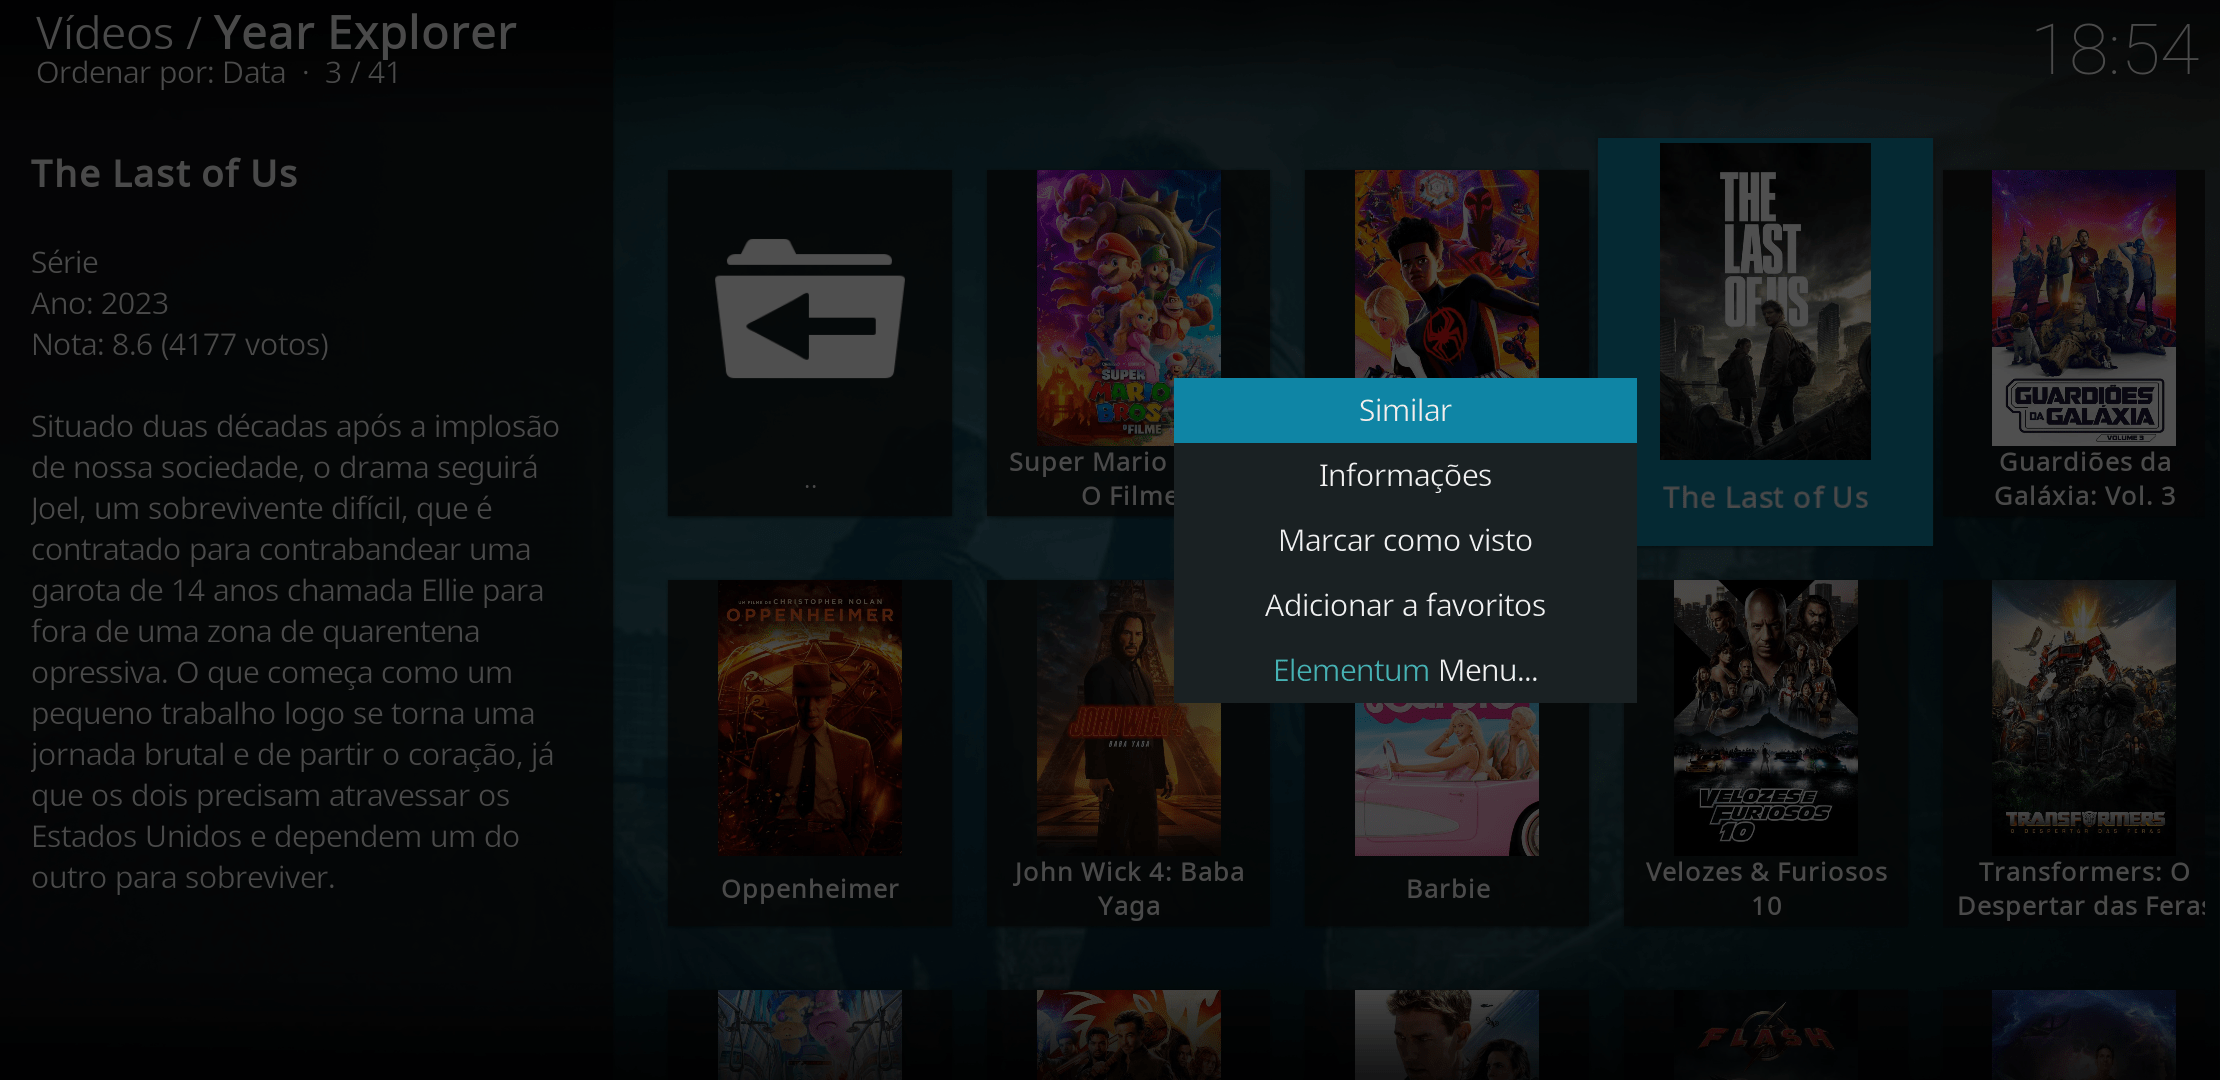
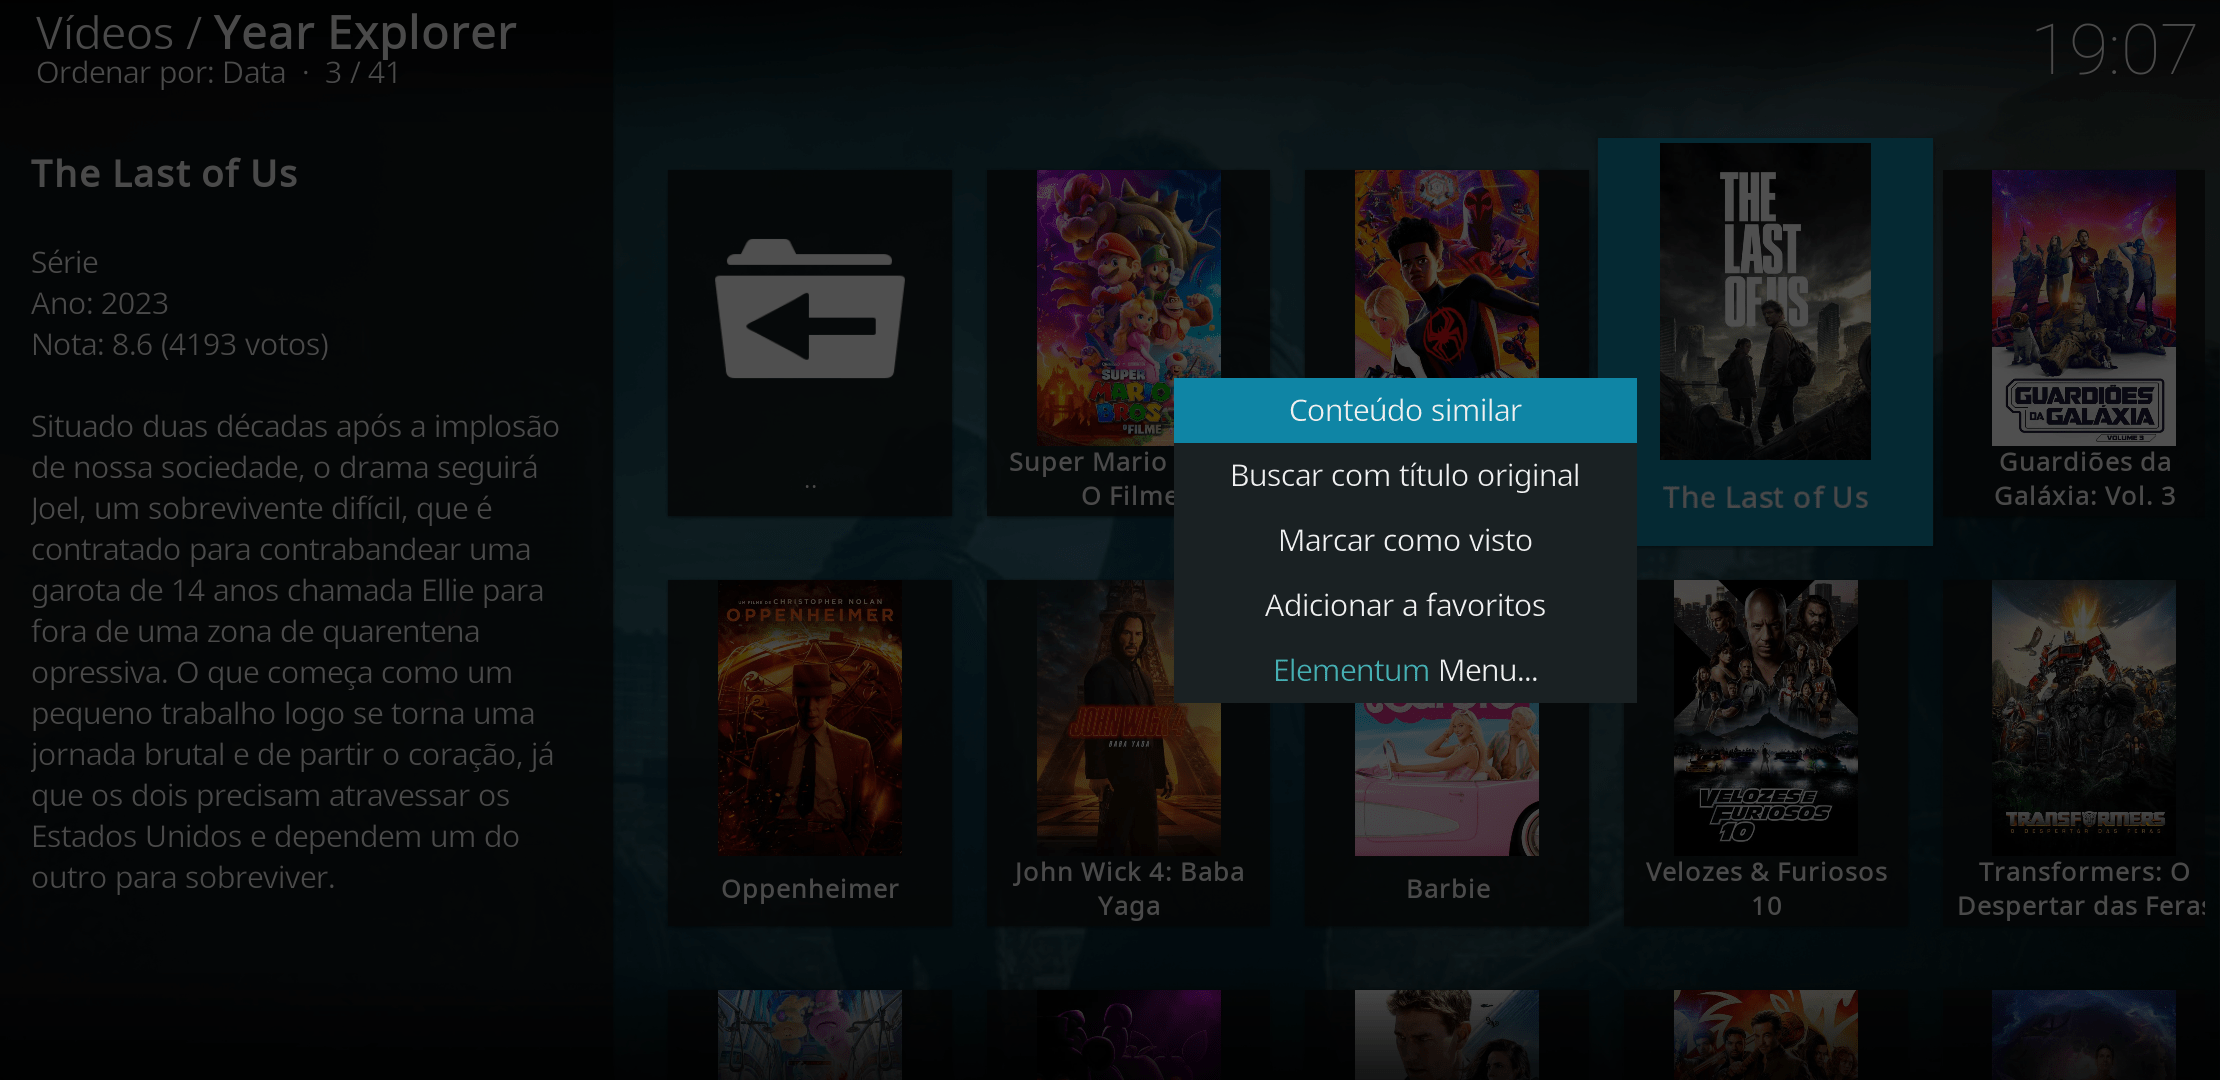
real title search at context menu

diff --git a/resources/lib/utils.py b/resources/lib/utils.py
@@ -1,4 +1,5 @@
 # -*- coding: utf-8 -*-
+# Copyright (C) 2023 gbchr
 
 from resources.lib import routing, utils
 from kodi_six import xbmc, xbmcgui, xbmcplugin, xbmcaddon, xbmcvfs
@@ -137,6 +138,13 @@ def createItem(url, label, **kwargs):
 			"plot": kwargs['plot'],
 			"mediatype": kwargs['mediatype']
 		})
+		# check and fix for original elementum context menu
+		if kwargs['mediatype'] == 'tvshow':
+			li.setInfo(type="video", infoLabels = {
+				"tvshowtitle": label,
+				"season": 1,
+				"mediatype": "season"
+			})
 		li.setArt({
 			'icon': kwargs['image'], 'thumb': kwargs['image'],
 			'poster': kwargs['image'], 'banner': kwargs['image']
@@ -147,14 +155,21 @@ def createItem(url, label, **kwargs):
 		li.setProperty("year", str(kwargs['current_year']))
 		#li.setProperty("show_dialog_busy", "false")
 
+		CM_items = []
 		# context menu for similar content
 		similar_link = plugin.base_url + '/similar/%s/%s/1' % (kwargs['id'], kwargs['mediatype'])
-		li.addContextMenuItems([('Similar', 'Container.Update(%s)' % (similar_link))])
-		
+		similar_item = ('Conteúdo similar', 'Container.Update(%s)' % (similar_link))
+		CM_items.append(similar_item)
+		# context menu for original title search
+		title_item = ('Buscar com título original', 'RunPlugin(%s)' % (kwargs['real_title_search']))
+		CM_items.append(title_item)
+		# add context menu to ListItem
+		li.addContextMenuItems(CM_items)
+
 	except Exception as e:
 		log(e)
 	addDirectoryItem(plugin.handle, url, li)
 
 def endDirectory():
-	endOfDirectory(plugin.handle, succeeded=True, cacheToDisc=False)
+	endOfDirectory(plugin.handle, succeeded=True, cacheToDisc=True)
 

diff --git a/addon.py b/addon.py
@@ -1,4 +1,5 @@
 # -*- coding: utf-8 -*-
+# Copyright (C) 2023 gbchr
 
 from resources.lib import routing, utils, parser
 from kodi_six import xbmc, xbmcgui, xbmcplugin, xbmcaddon, xbmcvfs
@@ -36,7 +37,8 @@ def list_items(year, page):
 							fanart = item['background'],
 							current_year = year,
 							id = item['tmdb'],
-							mediatype = item['tipo'])
+							mediatype = item['tipo'],
+							real_title_search = utils.elementum_url(item['metodo_busca'], item['titulo_original'], year, item['tmdb']) )
 	if int(page) > 1:
 		utils.createFolder(list_items, 'Página anterior', [year, int(page) - 1], 'previouspage.png', "", 'previouspage.png')
 	utils.createFolder(list_items, 'Próxima página', [year, int(page) + 1], 'nextpage.png', "", 'nextpage.png')
@@ -56,7 +58,8 @@ def list_similar(id, type, page):
 							fanart = item['background'],
 							current_year = year,
 							id = item['tmdb'],
-							mediatype = item['tipo'])
+							mediatype = item['tipo'],
+							real_title_search = utils.elementum_url(item['metodo_busca'], item['titulo_original'], year, item['tmdb']) )
 	if int(page) > 1:
 		utils.createFolder(list_similar, 'Página anterior', [id, type, int(page) - 1], 'previouspage.png', "", 'previouspage.png')
 	utils.createFolder(list_similar, 'Próxima página', [id, type, int(page) + 1], 'nextpage.png', "", 'nextpage.png')

diff --git a/resources/lib/parser.py b/resources/lib/parser.py
@@ -1,4 +1,5 @@
 # -*- coding: utf-8 -*-
+# Copyright (C) 2023 gbchr
 
 from resources.lib import utils, tmdb
 from kodi_six import xbmc, xbmcgui, xbmcplugin, xbmcaddon
@@ -50,6 +51,7 @@ def parse_movies_result(json):
 				'metodo_busca': 'search',
 				'tmdb': r['id'],
 				'titulo': r['title'],
+				'titulo_original': r['original_title'],
 				'sinopse': 'Filme\nAno: %s\nNota: %s (%s votos)\n\n%s' % (r['release_date'][0:4], str(r['vote_average']), str(r['vote_count']), r['overview']),
 				'imagem': 'https://image.tmdb.org/t/p/w780' + r['poster_path'],
 				'background': 'https://image.tmdb.org/t/p/w780' + r['backdrop_path'],
@@ -69,6 +71,7 @@ def parse_shows_result(json):
 				'metodo_busca': 'search',
 				'tmdb': r['id'],
 				'titulo': r['name'],
+				'titulo_original': r['original_name'],
 				'sinopse': 'Série\nAno: %s\nNota: %s (%s votos)\n\n%s' % (r['first_air_date'][0:4], str(r['vote_average']), str(r['vote_count']), r['overview']),
 				'imagem': 'https://image.tmdb.org/t/p/w780' + r['poster_path'],
 				'background': 'https://image.tmdb.org/t/p/w780' + r['backdrop_path'],
